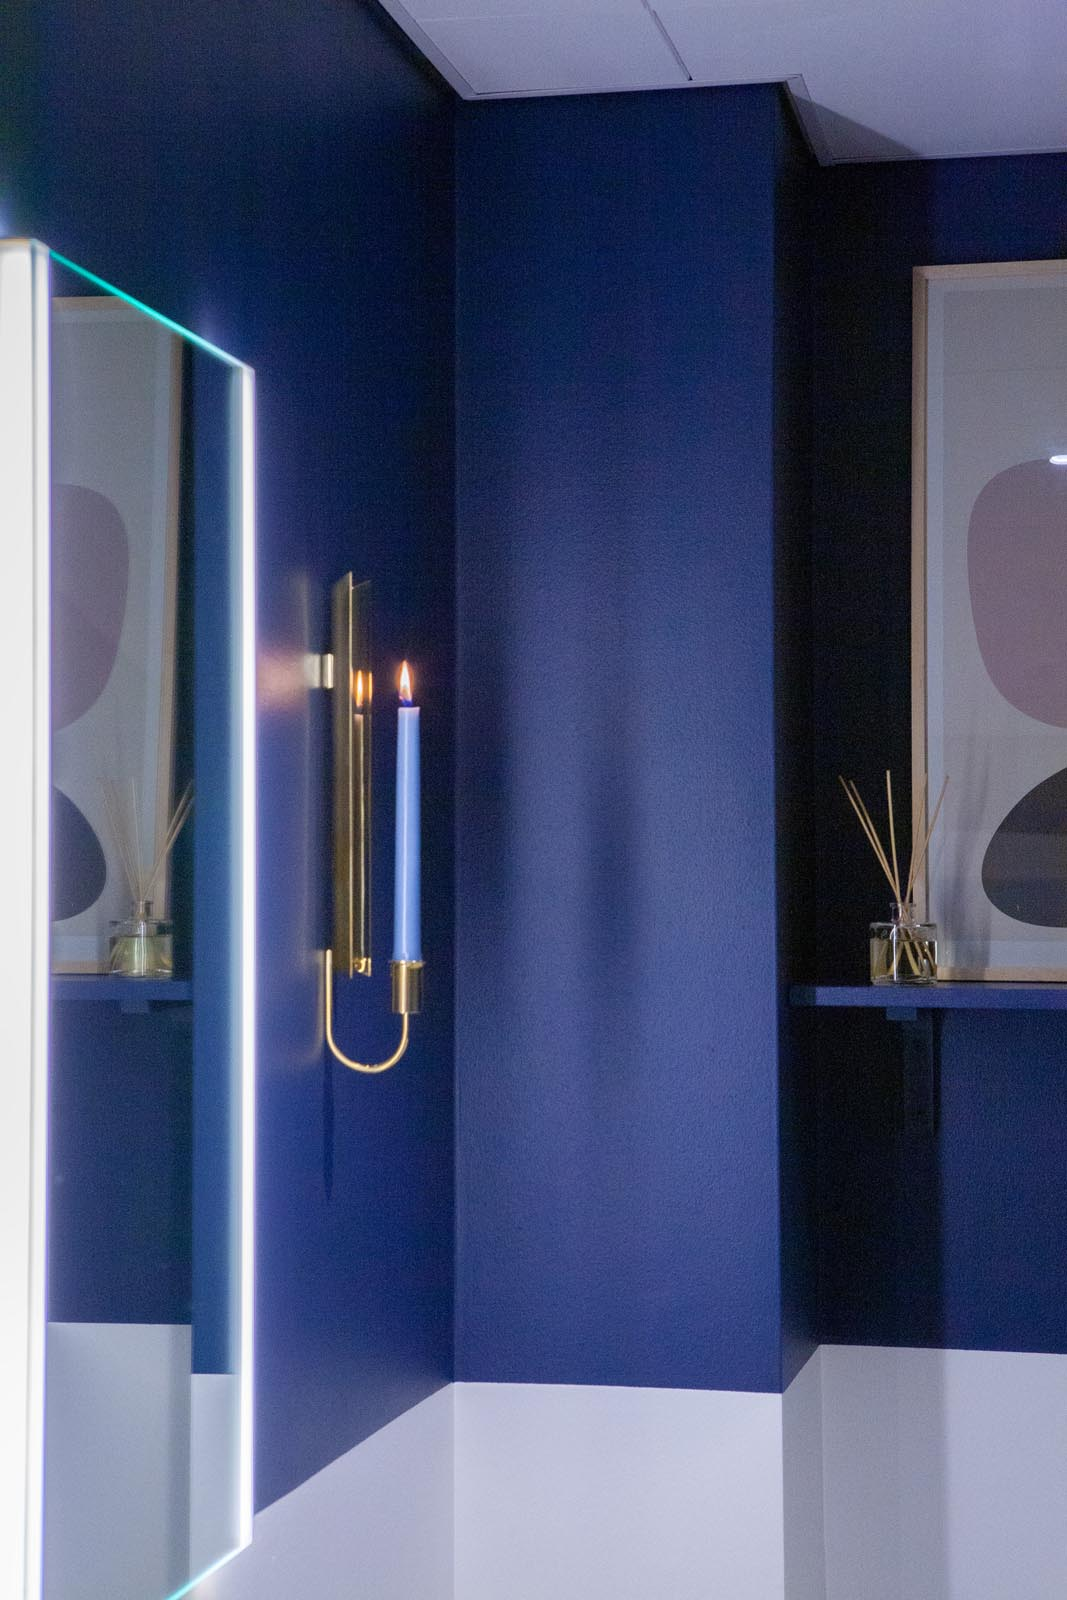
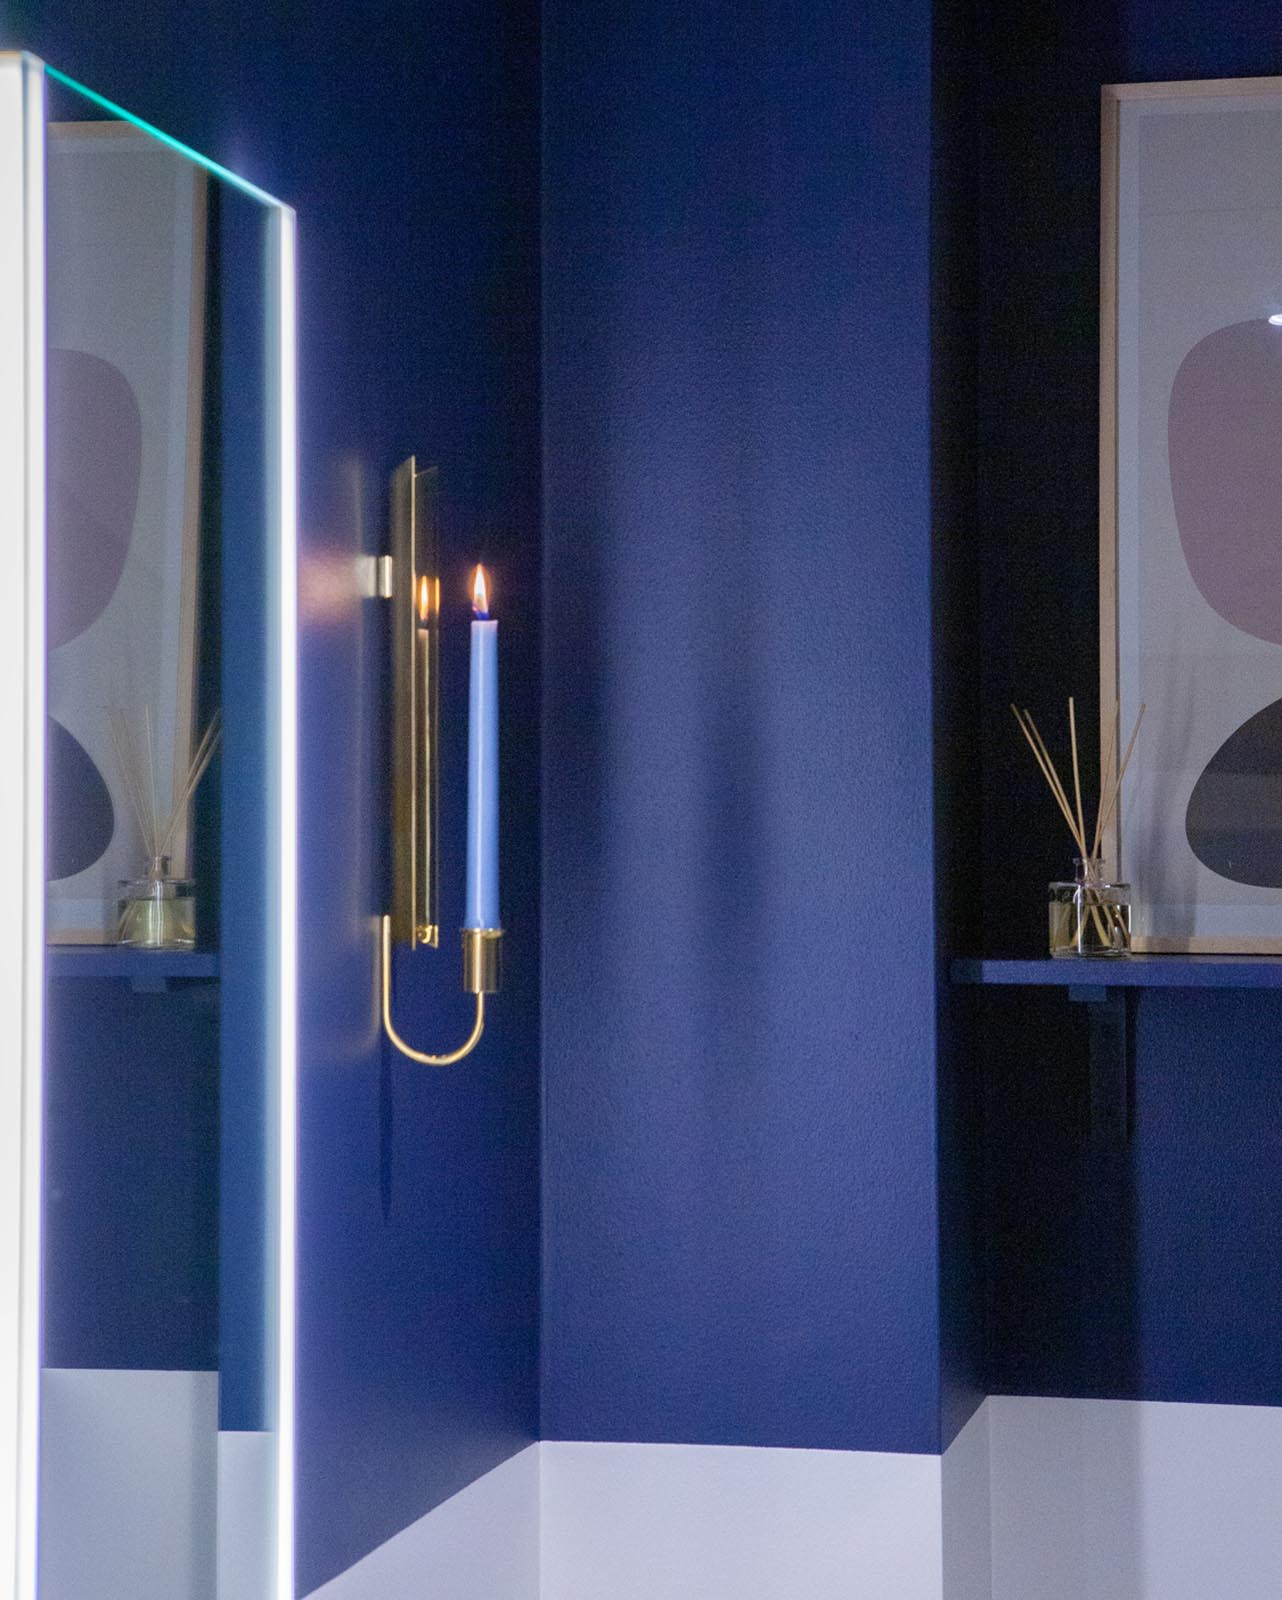
Changed main pictures for projects and added text in about section

Changed region(s): [[0.0, 0.0, 1.0, 1.0], [0.9278, 0.25, 1.0, 0.3125], [0.7113, 0.375, 0.7423, 0.4688]]

diff --git a/index.html b/index.html
@@ -85,21 +85,15 @@
                     </div>
                     <div class="column">
                         <div class="column-2" style="margin-left: 20px;"> 
-                            <p> Hi! <br>
-                                Lorem, ipsum dolor sit amet consectetur adipisicing elit. Ad quos atque quae quam,
-                                eaque quo ipsa corrupti facere cumque asperiores beatae veritatis similique, ducimus
-                                eveniet quibusdam id minima dolores quia, expedita quidem reiciendis. Eligendi labore
-                                nulla, reprehenderit animi quia mollitia voluptate dolores libero optio quos
-                                repellendus,
-                                maiores quo? Quasi eum est, non nulla beatae sint recusandae rerum? Modi accusantium
-                                nobis harum placeat necessitatibus quidem provident numquam vel veritatis qui sequi
-                                autem suscipit recusandae tenetur, adipisci dolorum repellendus consequatur nemo!
-                                Adipisci quisquam voluptatum perspiciatis ab molestias fuga provident error ratione.
-                                Aspernatur natus molestias adipisci iste perferendis sint omnis iusto, veritatis
-                                corporis magni corrupti officiis provident, vitae illo asperiores beatae hic. Libero
-                                nisi nesciunt voluptate eligendi sint impedit, placeat perferendis corporis doloremque
-                                enim magni alias voluptas.<br>
-                                // Katja Karling
+                            <p>
+                                <h4 style="text-transform: uppercase;">Katja Karling</h4>  
+                                Home styling and interior decoration<br><br> 
+                                Katja Karling is an interior decorator and founder of Monogram design studio (Stockholm, Sweden).<br>  
+                                Katja has two decades of expertise in Scandinavian design that follow her background in the graphic design and photography. 
+                                Using this knowledge combined with an eye for proportion, colour and material, she creates beautiful, comfortable and stimulating interiors. 
+                                Her approach is based on a collaborative process resulting in spaces that reflect the unique needs of each client.<br> 
+                                Katja was a contributing editor to the Russian translation of The Interior Design Handbook by Frida Ramstedt.<br> 
+                                She is a member of the Swedish Society of Crafts and Design (Svensk Form) and travels internationally for speaking engagements.
                             </p>
                         </div>
                     </div>
